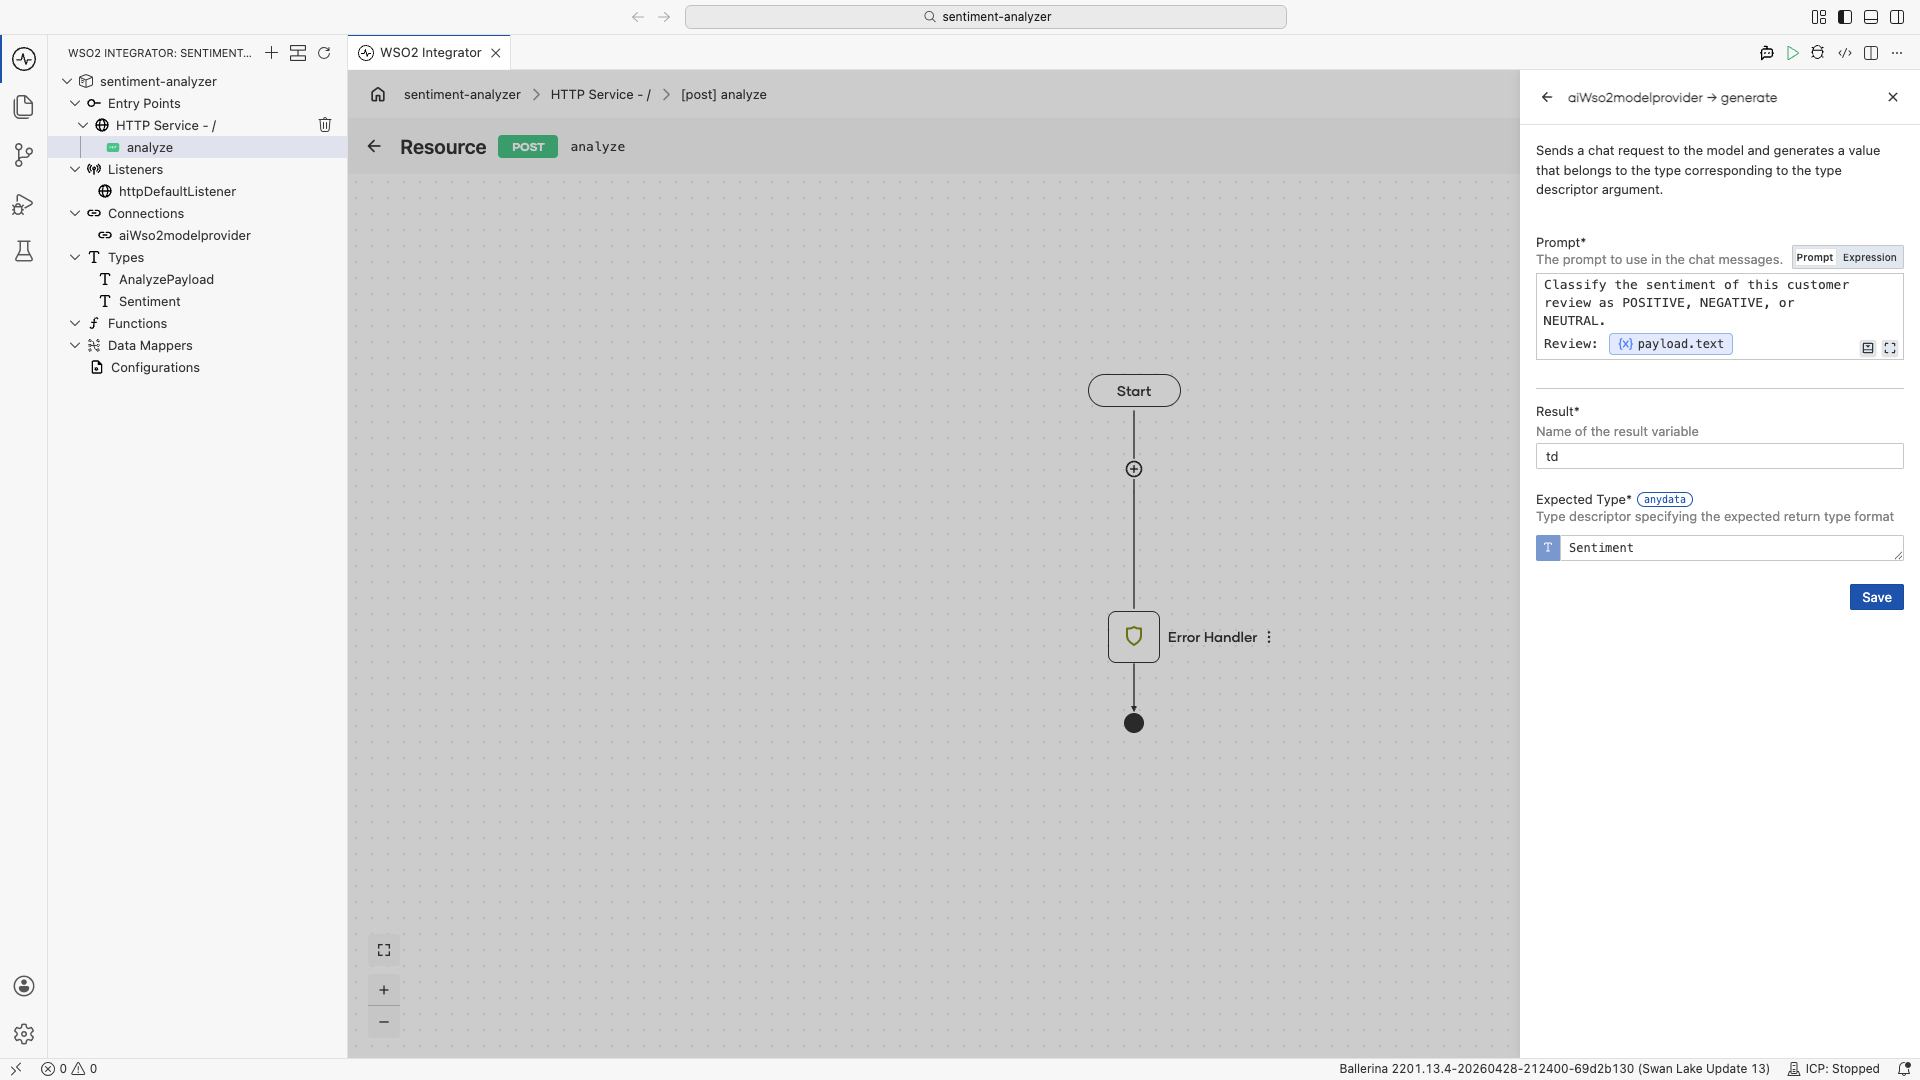
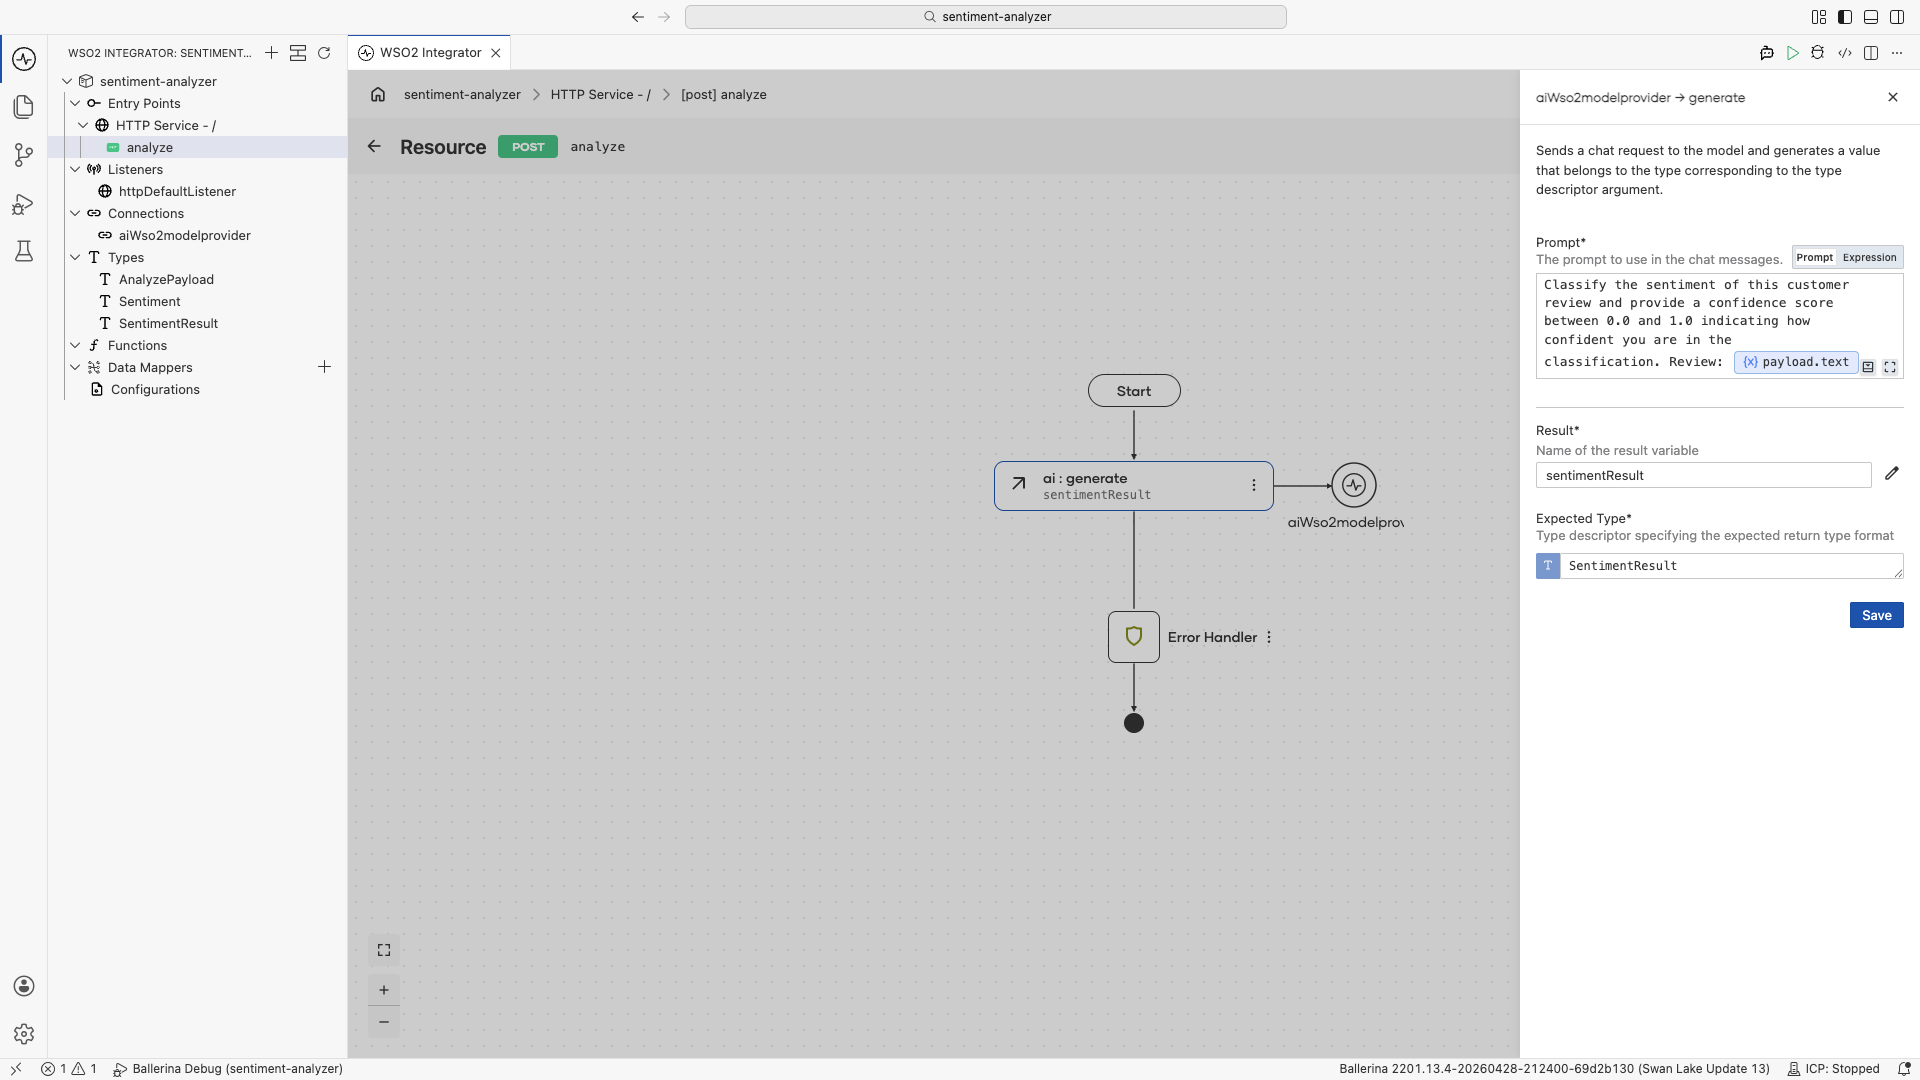
Address review comments

diff --git a/en/docs/genai/getting-started/build-a-sentiment-analyzer.md b/en/docs/genai/getting-started/build-a-sentiment-analyzer.md
@@ -12,7 +12,7 @@ import TabItem from '@theme/TabItem';
 
 # Build a sentiment analyzer
 
-**Time:** Under 10 minutes | **What you'll build:** An HTTP service that listens on `POST /analyze`, sends a customer review to an LLM, and returns the sentiment as `POSITIVE`, `NEGATIVE`, or `NEUTRAL`.
+**Time:** Under 10 minutes | **What you'll build:** An HTTP service that listens on `POST /analyze`, sends a customer review to an LLM, and returns the sentiment (`POSITIVE`, `NEGATIVE`, or `NEUTRAL`) along with a confidence score.
 
 A direct LLM call is the simplest way to use AI in an integration: you send a prompt, the model returns a value, and Ballerina enforces the return type. This quick start shows the full cycle: define the result type, configure a model provider, make the call, and test it.
 
@@ -82,13 +82,13 @@ The LLM call returns one of three values. Define an enum so Ballerina can enforc
 3. Select **+ Add Model Provider**, then choose **WSO2 Model Provider**.
 4. Keep the default name and select **Save**. The provider is added under **Connections**.
 5. Select the **Generate** action.
-6. Set **Prompt** to `Classify the sentiment of this customer review as POSITIVE, NEGATIVE, or NEUTRAL. Review: ${payload.text}`.
-7. Set the result variable name to `td`.
-8. Set **Expected Type** to `Sentiment`.
-9. Select **Save**.
+6. Set **Prompt** to `Classify the sentiment of this customer review and provide a confidence score between 0.0 and 1.0 indicating how confident you are in the classification. Review: ${payload.text}`.
+7. Set the result variable name to `sentimentResult`.
+8. For **Expected Type**, create a new record type `SentimentResult` with two fields: `sentiment` of type `Sentiment` and `confidence` of type `float`. Select **Save** in the type creator.
+9. Back in the Generate panel, select `SentimentResult` in the **Expected Type** field, then select **Save**.
 
 <ThemedImage
-    alt="Configuring the Generate action with the classification prompt and Sentiment as the expected return type"
+    alt="Configuring the Generate action with the classification prompt and SentimentResult as the expected return type"
     sources={{
         light: useBaseUrl('/img/genai/getting-started/build-a-sentiment-analyzer/add-prompt-and-return-type.png'),
         dark: useBaseUrl('/img/genai/getting-started/build-a-sentiment-analyzer/add-prompt-and-return-type.png'),
@@ -99,7 +99,7 @@ The LLM call returns one of three values. Define an enum so Ballerina can enforc
 
 1. Select **+** below the **ai:generate** node.
 2. Select **Return**.
-3. Set **Expression** to `td`.
+3. Set **Expression** to `sentimentResult`.
 4. Select **Save**.
 
 <ThemedImage
@@ -115,10 +115,10 @@ The LLM call returns one of three values. Define an enum so Ballerina can enforc
 1. Select **Run**.
 2. Select **Try It** in the confirmation dialog.
 3. Send a `POST` to `/analyze` with the body `{"text": "Absolutely loved this product! Best purchase I made all year."}`.
-4. Confirm the response is `"POSITIVE"`.
+4. Confirm the response includes `"sentiment":"POSITIVE"` along with a `confidence` score.
 
 <ThemedImage
-    alt="Running the integration and testing it with the Try It panel showing a POSITIVE sentiment response"
+    alt="Running the integration and testing it with the Try It panel showing a POSITIVE sentiment response with a confidence score"
     sources={{
         light: useBaseUrl('/img/genai/getting-started/build-a-sentiment-analyzer/run-and-test.png'),
         dark: useBaseUrl('/img/genai/getting-started/build-a-sentiment-analyzer/run-and-test.png'),
@@ -128,23 +128,24 @@ The LLM call returns one of three values. Define an enum so Ballerina can enforc
 </TabItem>
 <TabItem value="code" label="Ballerina Code">
 
-The following Ballerina program produces the same integration shown in the Visual Designer steps. The code wraps the result in a `SentimentResponse` record so the response is `{"sentiment":"POSITIVE"}` instead of a bare JSON string.
+The following Ballerina program produces the same integration shown in the Visual Designer steps. The LLM returns a `SentimentResult` record so the response includes both the sentiment and a confidence score (for example, `{"sentiment":"POSITIVE","confidence":0.98}`).
 
 `types.bal`:
 
 ```ballerina
-public enum Sentiment {
+enum Sentiment {
     POSITIVE,
     NEGATIVE,
     NEUTRAL
 }
 
-public type ReviewRequest record {|
+type AnalyzePayload record {|
     string text;
 |};
 
-public type SentimentResponse record {|
+type SentimentResult record {|
     Sentiment sentiment;
+    float confidence;
 |};
 ```
 
@@ -164,17 +165,18 @@ import ballerina/http;
 listener http:Listener httpDefaultListener = http:getDefaultListener();
 
 service / on httpDefaultListener {
-    resource function post analyze(ReviewRequest payload) returns SentimentResponse|error {
-        Sentiment sentiment = check aiWso2modelprovider->generate(
-            `Classify the sentiment of this customer review as POSITIVE, NEGATIVE, or NEUTRAL.
+    resource function post analyze(@http:Payload AnalyzePayload payload) returns SentimentResult|error {
+        SentimentResult sentimentResult = check aiWso2modelprovider->generate(
+            `Classify the sentiment of this customer review and provide a confidence score
+            between 0.0 and 1.0 indicating how confident you are in the classification.
             Review: ${payload.text}`
         );
-        return {sentiment};
+        return sentimentResult;
     }
 }
 ```
 
-Run and test the integration from WSO2 Integrator using the **Try It** panel as shown in Step 6. The response is `{"sentiment":"POSITIVE"}`.
+Run and test the integration from WSO2 Integrator using the **Try It** panel as shown in Step 6. The response will look similar to `{"sentiment":"POSITIVE","confidence":0.98}`, with the actual sentiment and confidence score determined by the model.
 
 </TabItem>
 </Tabs>
@@ -183,7 +185,7 @@ Run and test the integration from WSO2 Integrator using the **Try It** panel as 
 
 The model provider's `generate` method takes a backtick template prompt and an expected return type. Behind the scenes the LLM is instructed to produce output that conforms to that type, and the response is parsed and validated before being returned to your code.
 
-Because the return type is an enum, the LLM cannot return free-form text. It must pick one of `POSITIVE`, `NEGATIVE`, or `NEUTRAL`. If the model returns anything else, the call fails with a typed error rather than silently passing bad data downstream.
+Because the `sentiment` field is an enum, the LLM cannot return free-form text for it. It must pick one of `POSITIVE`, `NEGATIVE`, or `NEUTRAL`. If the model returns anything else, the call fails with a typed error rather than silently passing bad data downstream.
 
 This is what differentiates a direct LLM call from a raw chat completion: you write the call as if it were a normal function and let the type system do the work.
 
